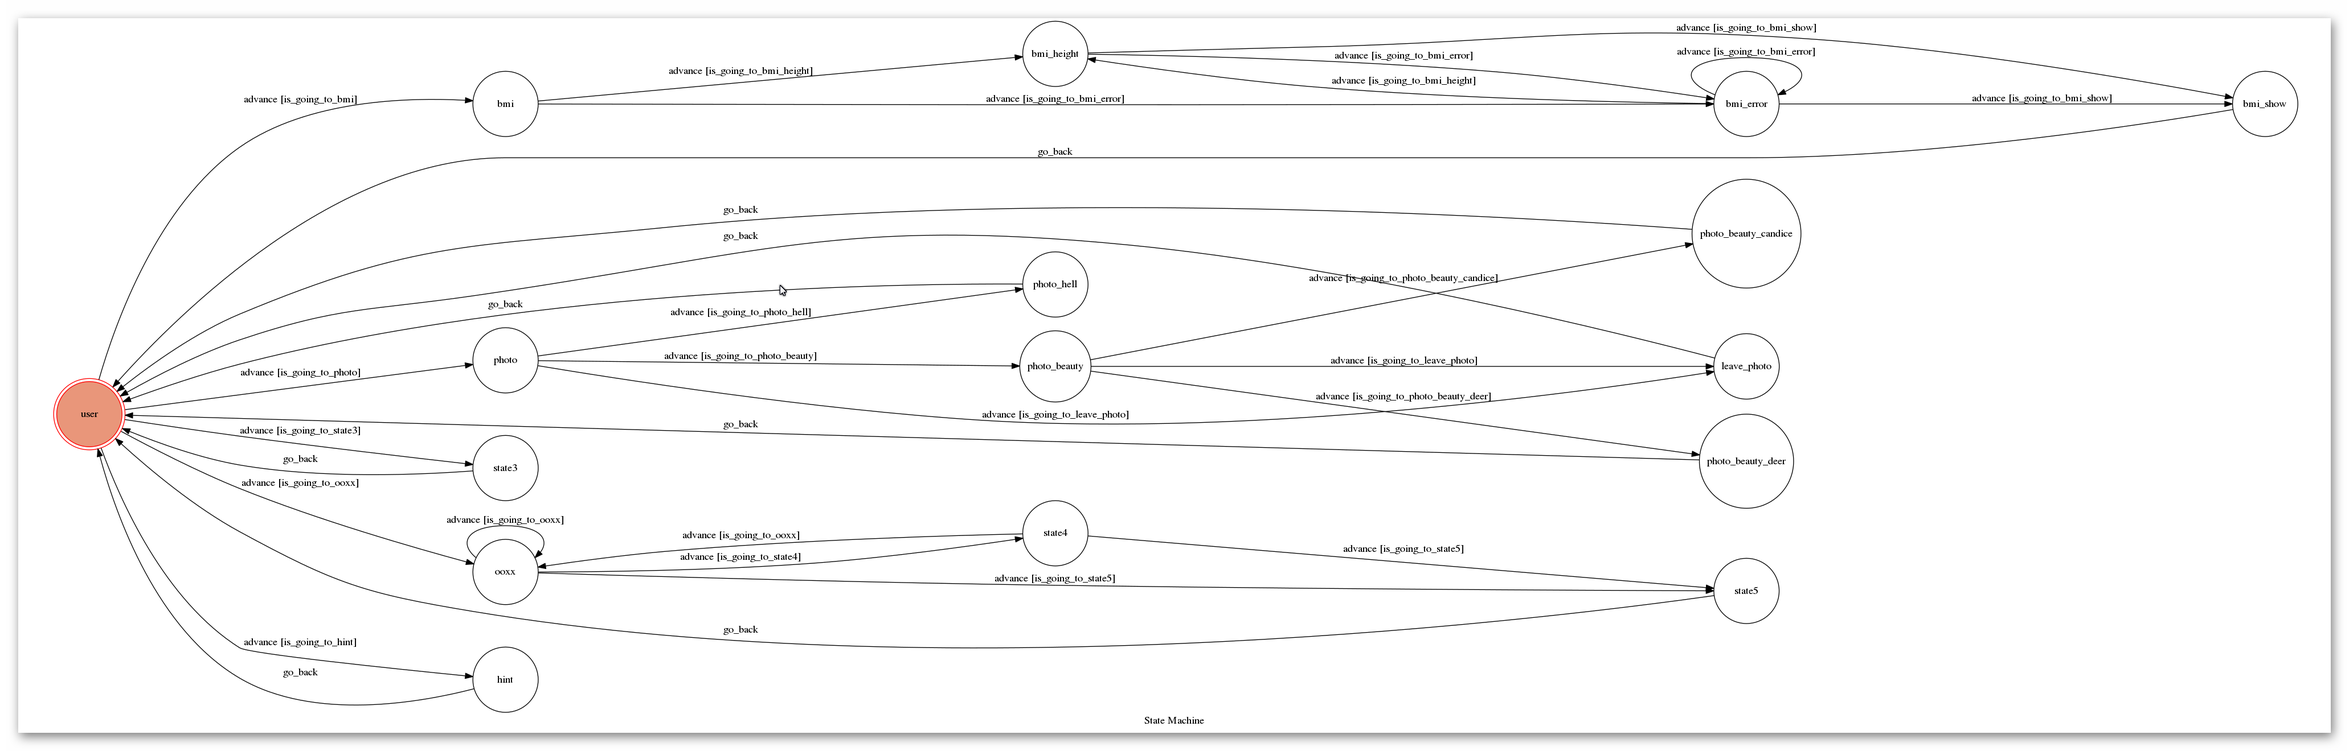
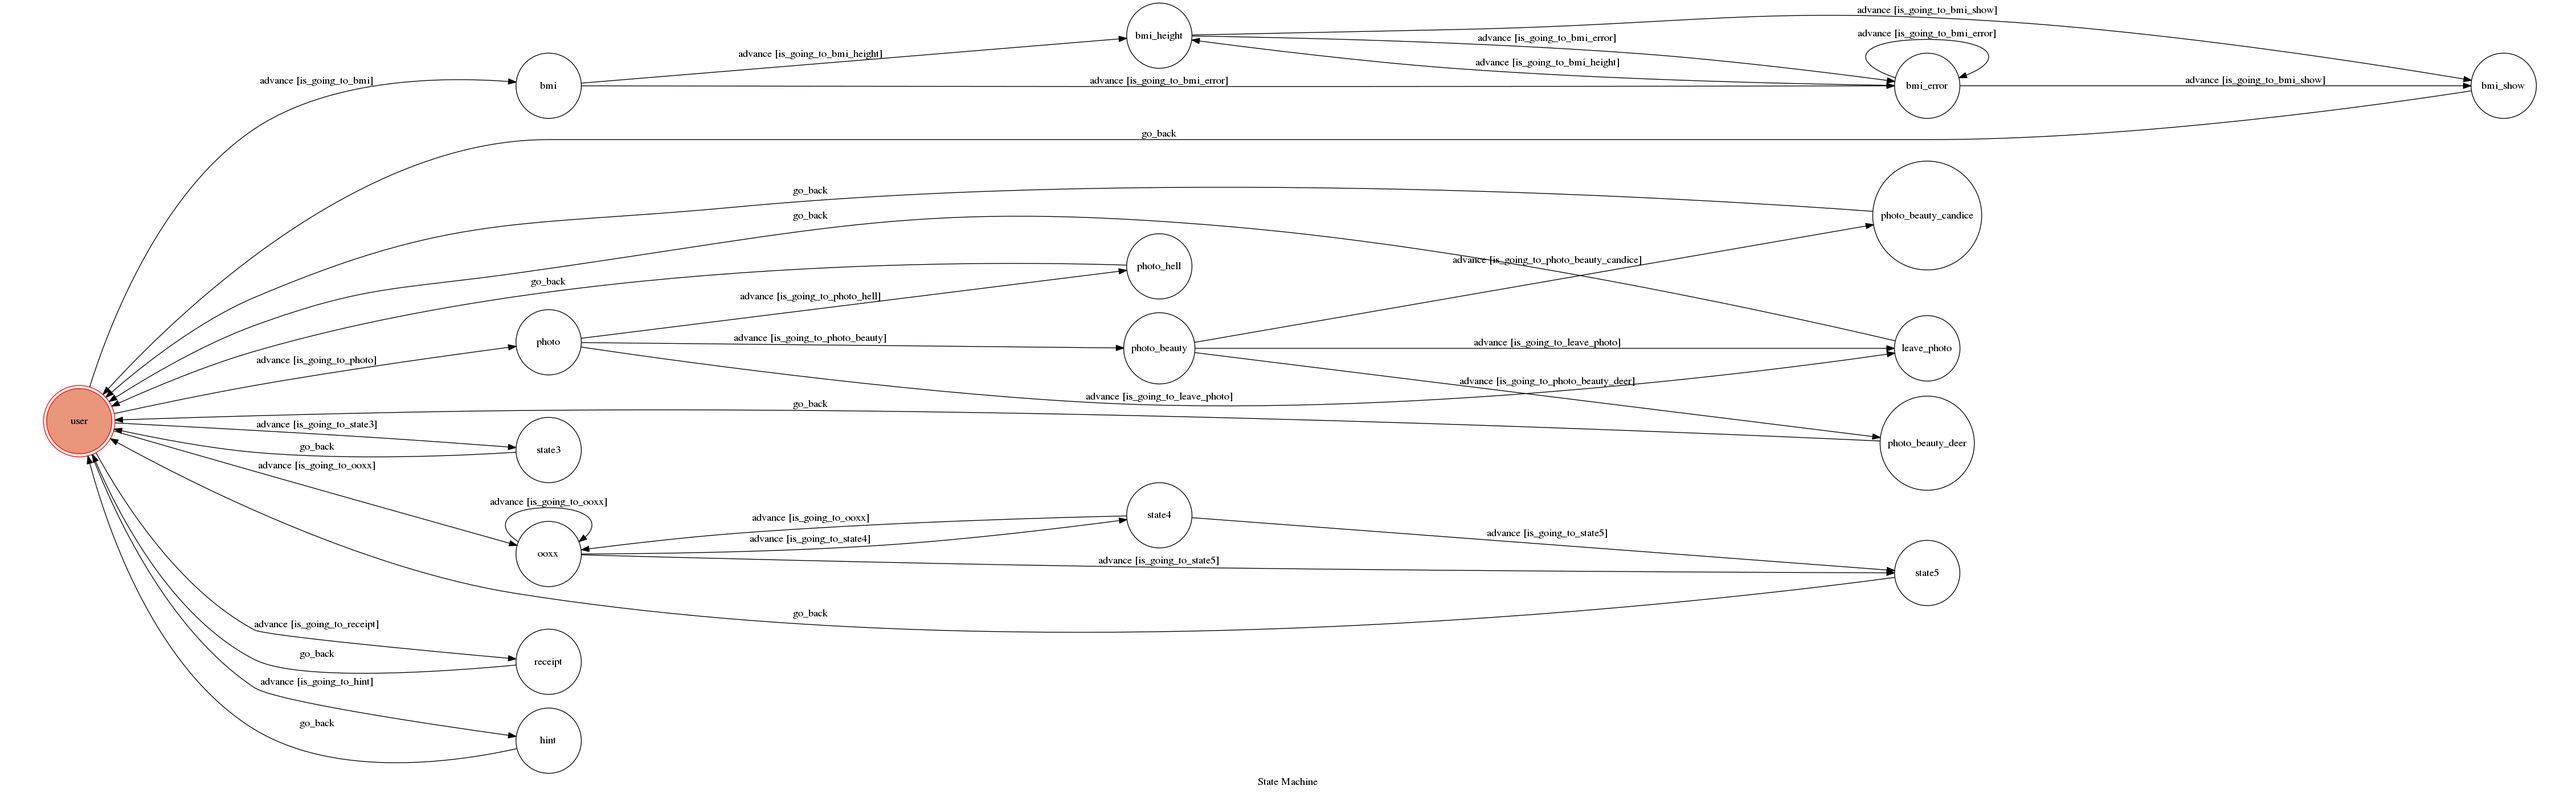
Toc - project - 2017 Telegram ChatBot using Python3
Add the receipt function

		receipt	:	get the last 3 times of receipt lottery numbers

	update the state image
	update the hint text
	update the README.md

diff --git a/fsm.py b/fsm.py
@@ -1,25 +1,89 @@
+# -*- coding: utf8 -*-
 import time
 import __main__
 import random
-
+import requests, json
+import datetime
+from lxml import etree, html  
 from transitions.extensions import GraphMachine
 from telegram import InlineKeyboardButton, InlineKeyboardMarkup
 from telegram.ext import  CommandHandler, CallbackQueryHandler
  
 puzzle  = [['_' for x in range(3)] for y in range(3)] 
+
 bmi_state = 0
 bmi_get_weight = 0.0
 bmi_get_height = 0.0
+
 root = 1
 OX = 0
 id_chat = 0
 id_message = 0
 
-hint_text     =  'Hint :\nThere are four commands .'
-hint_text    +=  '\n(1) photo : Get some photos'
-hint_text    +=  '\n(2) ooxx   : Play tic-tac-toe with bot'
-hint_text    +=  '\n(3) bmi     : Enter your weight and height ,you can know your bmi'
-hint_text    +=  '\n(4) 3          : Don\'t doubt it. It\'s  3  but just for test only😂'
+hint_text     =  'Hint :\nThere are five commands so far.'
+hint_text    +=  '\n(1) photo  : Get some photos'
+hint_text    +=  '\n(2) ooxx    : Play tic-tac-toe with bot'
+hint_text    +=  '\n(3) bmi      : Enter your weight and height ,you can know your bmi'
+hint_text    +=  '\n(4) receipt : Get the last 3 times of receipt lottery numbers'
+hint_text    +=  '\n(5) 3           : Don\'t doubt it. It\'s  3  but just for test only😂'
+
+def get_next_month(y ,m) :
+    r = []
+    if m == 1 :
+        y -= 1
+        m  = 11
+    else :
+        m -= 2
+    r.append(y)
+    r.append(m)
+    return r
+
+def get_receipt_number(y ,m):
+    
+    text = str(y-1911)
+    
+    if m < 10 :
+        text += '0'+str(m)
+    else :
+        text += str(m)
+    result = requests.get("https://www.etax.nat.gov.tw/etw-main/web/ETW183W2_%s/"%text) 
+    
+    result.encoding = 'utf8'  
+    root = etree.fromstring(result.content, etree.HTMLParser()) 
+    i = []
+    for row in root.xpath("//table[@class='table table-bordered']/tbody[position()>1]")  :
+        column = row.xpath("./tr/td/span/text()")
+        if len(column) > 0:
+            for g in column:
+                i.append(g)
+    return i
+
+def make_receipt_text(y ,m ,i) :
+    
+    text = "%s年"%str(y-1911)
+    
+    if m < 10 :
+        text += "0%d ~ "%m
+    else :
+        text += "%d ~ "%m
+    m += 1
+    if m < 10 :
+        text += "0%d月\n\n"%m
+    else :
+        text += "%d月\n\n"%m
+
+    k=[  "特別獎     : " 
+        ,"特獎         : " 
+        ,"頭獎         : " 
+        ,"增開六獎 : "
+    ]
+
+    for x in range(0 ,4):
+        text += k[x]
+        text += i[x]
+        text += "\n"
+
+    return text
 
 def ooxx_end() :
     global OX
@@ -293,11 +357,20 @@ class TocMachine(GraphMachine):
         elif OX == 2:
             return text.lower() == "n"
 
+    def is_going_to_receipt(self, update):
+
+        if hasattr(update.message ,'text'):
+            text = update.message.text
+        else:
+            return False
+
+        return text.lower() == "receipt"
+
     def is_going_to_hint(self, update):
         global root
         if root == 1:
             return True
-
+    
 #######################################################################
     def on_enter_bmi(self, update):
         global bmi_state
@@ -507,6 +580,45 @@ class TocMachine(GraphMachine):
 
     def on_exit_hint(self, update):
         print('Leaving hint')
+
+#######################################################################
+    def on_enter_receipt(self, update):       
+        now = datetime.datetime.now()
+        
+        year  = now.year
+        month = now.month
+        day   = now.day
+        ran = 3
+
+        if month%2 == 0:
+            month-=1
+            
+        elif  day < 25:
+            tmp = get_next_month(year ,month)
+            year = tmp[0]
+            month = tmp[1]
+
+        y=[]
+        m=[]
+        for x in range(0 ,ran) :
+            tmp = get_next_month(year ,month)
+            year = tmp[0]
+            month = tmp[1]
+            y.append(year)
+            m.append(month)
+
+        text=""
+        for x in range(0 ,ran) :
+            i = get_receipt_number(y[x] ,m[x])
+            text += make_receipt_text(y[x] ,m[x] ,i)
+            text += "\n\n"
+            
+        update.message.reply_text(text)
+        self.go_back(update)
+
+    def on_exit_receipt(self, update):
+        print('Leaving receipt')
+
 
 #######################################################################
     def on_enter_user(self, update):       

diff --git a/app.py b/app.py
@@ -2,7 +2,9 @@ import sys
 import fsm
 import time
 import telegram
+import requests, json
 
+from lxml import etree, html  
 from io import BytesIO
 
 from flask import Flask, request, send_file
@@ -14,7 +16,7 @@ from telegram import InlineKeyboardButton, InlineKeyboardMarkup
 from telegram.ext import CommandHandler, CallbackQueryHandler
 
 API_TOKEN = '375506753:AAGeRZuDa89KhOrWWopmBWk6RE9IS-3nG4g'
-WEBHOOK_URL = 'https://27b98064.ngrok.io/hook'
+WEBHOOK_URL = 'https://fc254417.ngrok.io/hook'
 
 app = Flask(__name__)
 bot = telegram.Bot(token=API_TOKEN)
@@ -41,6 +43,7 @@ machine = TocMachine(
         'ooxx',
         'state4',
         'state5',
+        'receipt',
         'hint'
     ],
     transitions=[
@@ -149,14 +152,14 @@ machine = TocMachine(
             ],
             'dest': 'state5',
             'conditions': 'is_going_to_state5'
-        },
+        },  
         {
             'trigger': 'advance',
             'source': [
                 'user'
             ],
-            'dest': 'hint',
-            'conditions': 'is_going_to_hint'
+            'dest': 'receipt',
+            'conditions': 'is_going_to_receipt'
         },
         {
             'trigger': 'go_back',
@@ -168,9 +171,18 @@ machine = TocMachine(
                 'photo_hell',
                 'state3',
                 'state5',
-                'hint'
+                'hint',
+                'receipt'
             ],
             'dest': 'user'
+        },
+        {
+            'trigger': 'advance',
+            'source': [
+                'user'
+            ],
+            'dest': 'hint',
+            'conditions': 'is_going_to_hint'
         }
     ],
     initial='user',

diff --git a/README.md b/README.md
@@ -1,77 +1,161 @@
 # TOC Final Project 2017
 
+
+
 Code for TOC Final Project 2017
+
+
 
 A telegram bot based on a finite state machine using python3
 
 
+
+
+
 ## Setup
 
+
+
 ### Prerequisite
+
 * Python 3
+
 * Telegram
 
+
+
 #### Install Dependency
+
 ```sh
+
 pip install -r requirements.txt
+
 ```
 
+
+
 * pygraphviz (For visualizing Finite State Machine)
+
     * [Setup pygraphviz on Ubuntu](http://www.jianshu.com/p/a3da7ecc5303)
+
+
 
 ### Personal Data
 
+
+
 `API_TOKEN` and `WEBHOOK_URL` in app.py **MUST** be set to proper values.
+
 Otherwise, you might not be able to run your code.
 
+
+
 ### Run Locally
+
 You can either setup https server or using `ngrok` as a proxy.
+
+
 
 **`ngrok` would be used in the following instruction**
 
+
+
 ```sh
+
 ngrok http 5000
+
 ```
+
+
 
 After that, `ngrok` would generate a https URL.
 
+
+
 You should set `WEBHOOK_URL` (in app.py) to `your-https-URL/hook`.
+
+
 
 #### Run the Code
 
+
+
 ```sh
+
 python3 app.py
+
 ```
 
+
+
 ## Finite State Machine
+
 ![fsm](./img/show-fsm.png)
 
+
+
 ## Usage
-初始STATE是 ***user*** ，有四種指令
+
+初始STATE是 ***user*** ，有五種指令
+
+
 
 * ***ooxx***
+
 	* 使用 `inlinekeyboard` 做出OOXX的檯面讓使用者可以和 **BOT**對戰，輸入 `exit` 可以離開遊戲，遊戲中使用 `edit_message` 來更新遊戲檯面，遊戲結束後會詢問是否要繼續遊戲 `Y` or `N`，輸入 `Y` 開啟新遊戲，輸入 `N` 則回到起始STATE ***user***
+
 <br><br>
+
 * ***photo***
+
 	* 進入後會出現三個選項，輸入數字即可進入相對應的STATE
+
 		* ***(1)  Beauty*** &emsp;&emsp;&emsp;&emsp;&emsp;: &emsp;正妹圖
+
 			* ***(1)  Candice***
+
 			* ***(2)  Deer***
+
 			* ***(3)  Leave photo***
+
 		* ***(2)  通往地獄的大門*** &emsp;:&emsp;地獄梗圖
+
 		* ***(3)  Leave photo***&emsp;&emsp;&emsp;:&emsp;離開 ***photo***
+
 <br><br>
+
 * ***bmi***
+
 	* 首先會要求輸入 **體重(kg)**  ，再來要求輸入 **身高(cm)** ，最後會給出BMI值和兵役體位 ， 如果輸入的 **不是數字** 或是 **0** 的話會要求重新輸入
+
 <br><br>
+
+* ***receipt***
+
+	* 可以獲得近3期的**發票中獎號碼**
+
+	
+
+<br><br>
+
 * ***3***
+
 	* 單純只是為了測試是否有回到 ***user*** ，還有貼圖很可愛XD
+
 	
+
 <br><br>
+
 * 其他輸入 
+
 	* 會印出 ***HINT*** ， 告訴使用者有哪些指令是有效的
+
 	
+
 ## Author
+
 [ORay0919](https://github.com/ORay0919)
+
+
 
 Template Code from [Lee-W](https://github.com/Lee-W/TOC-Project-2017)
